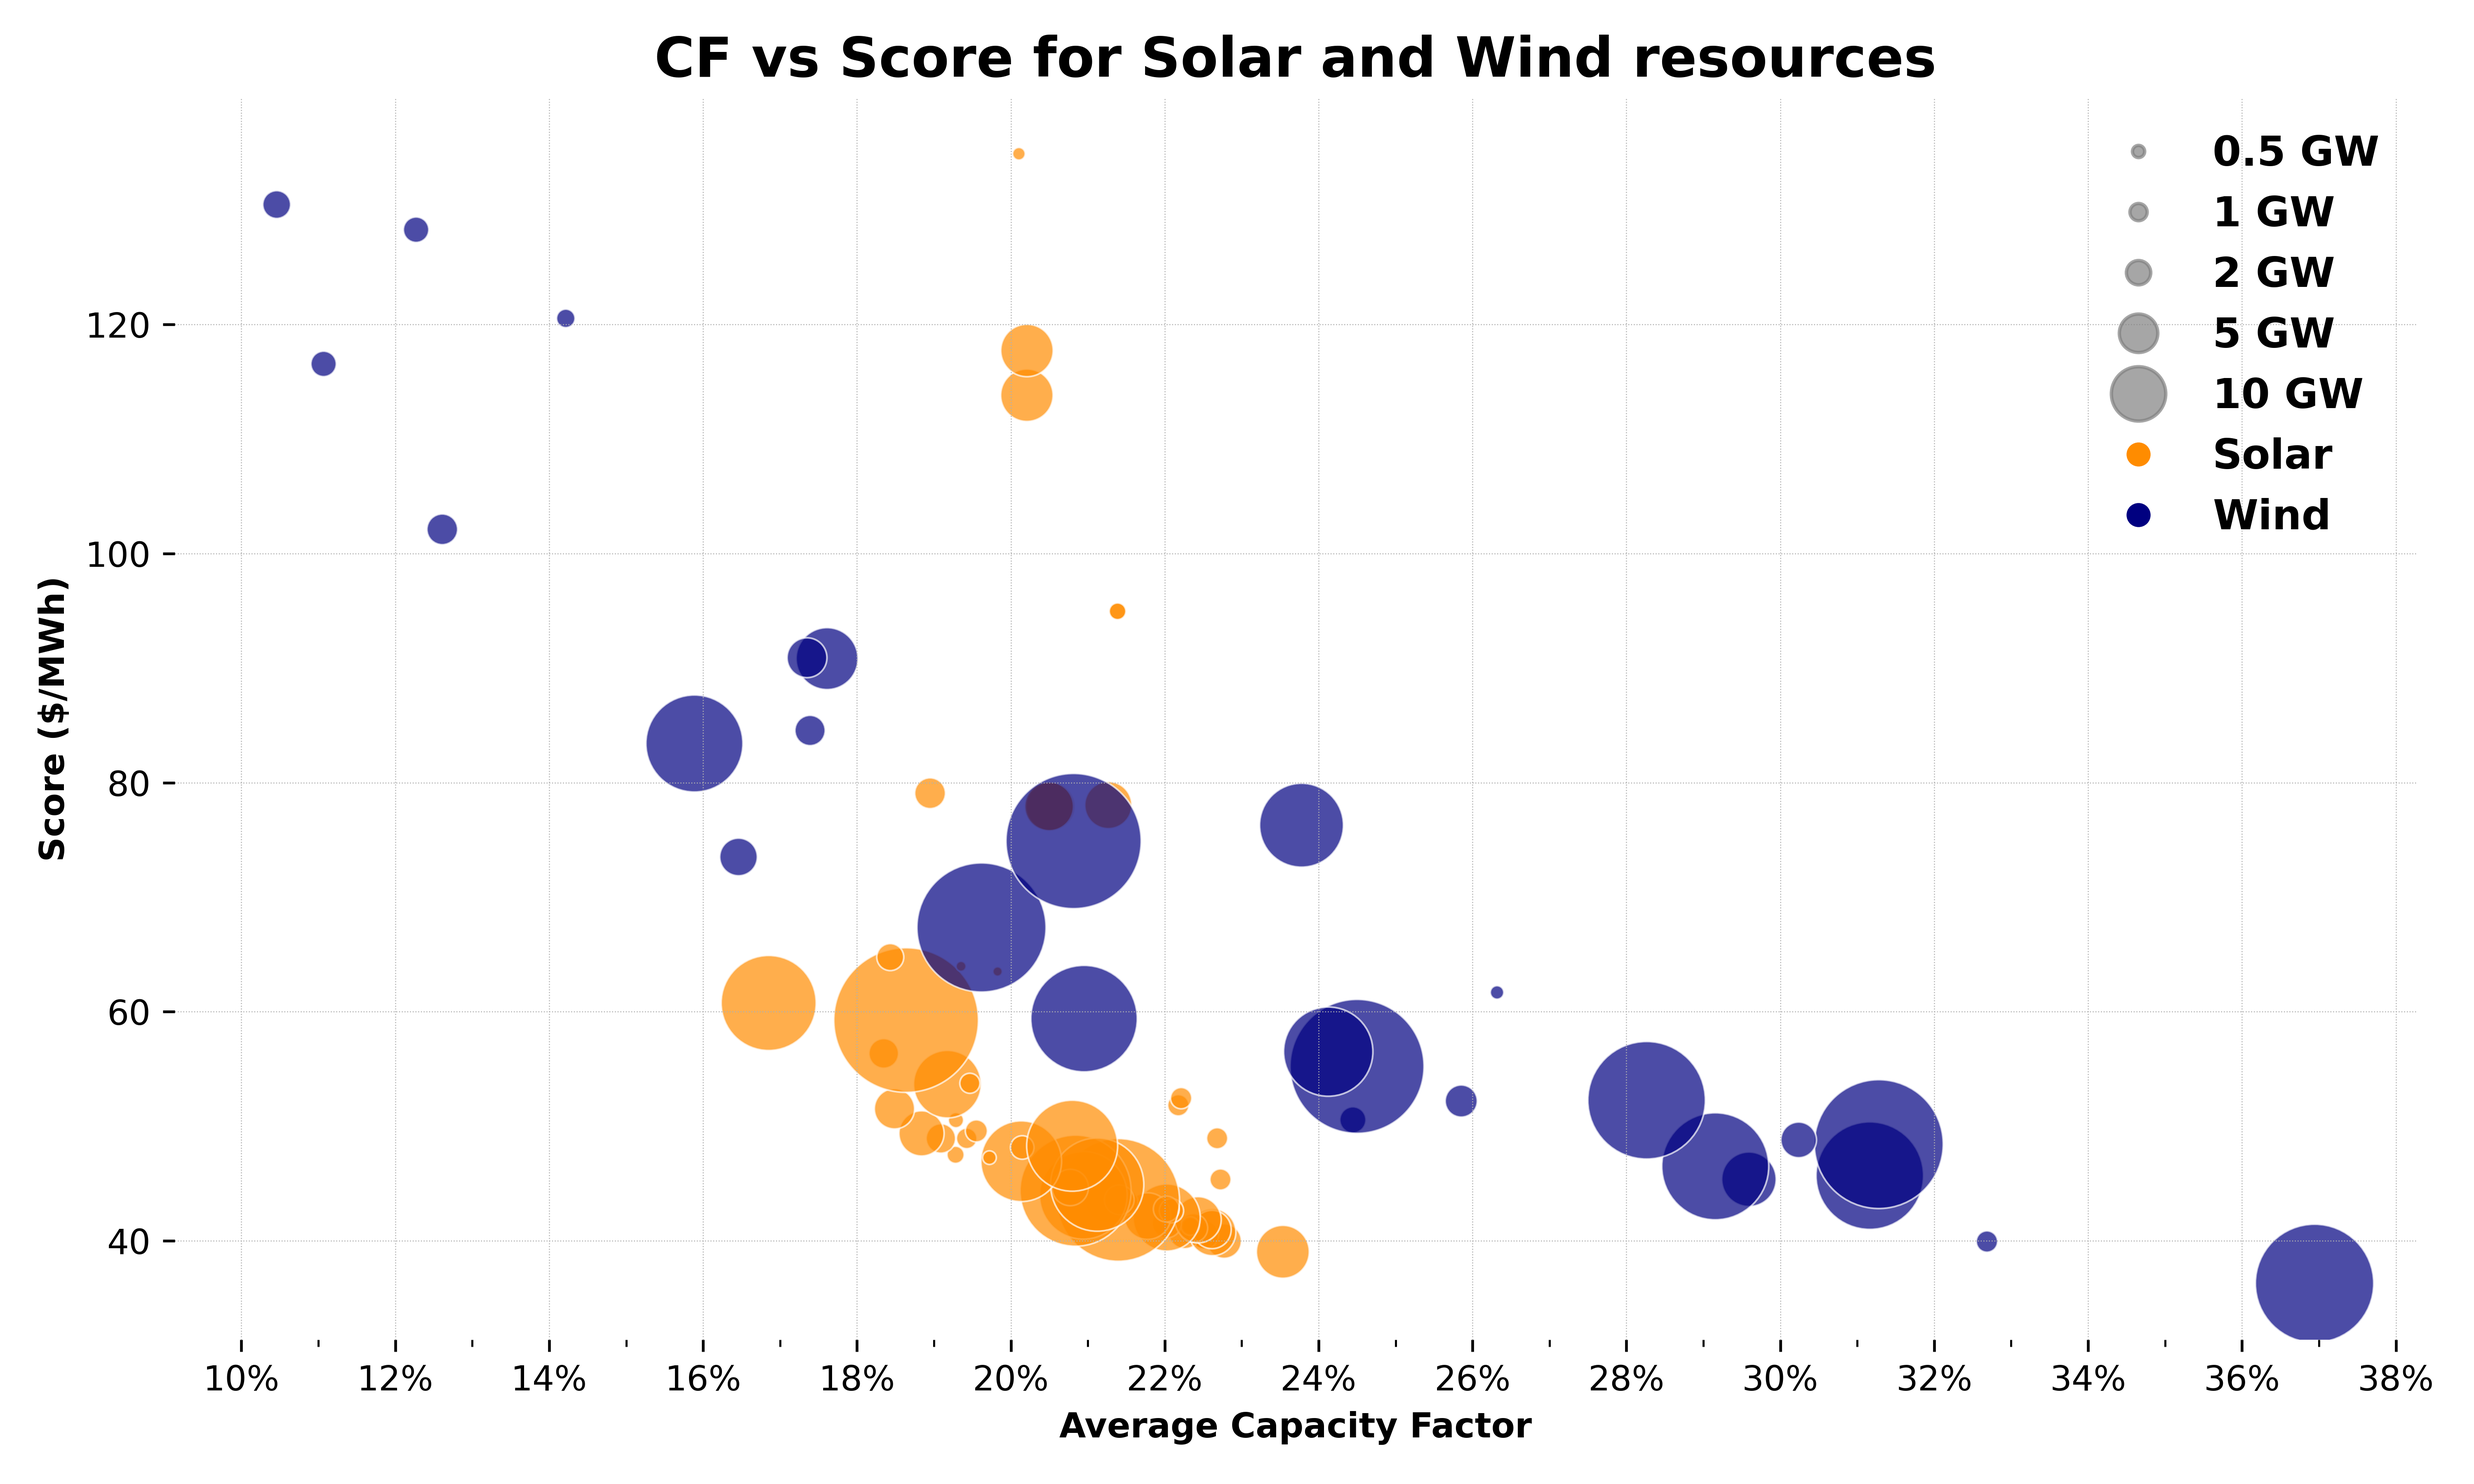
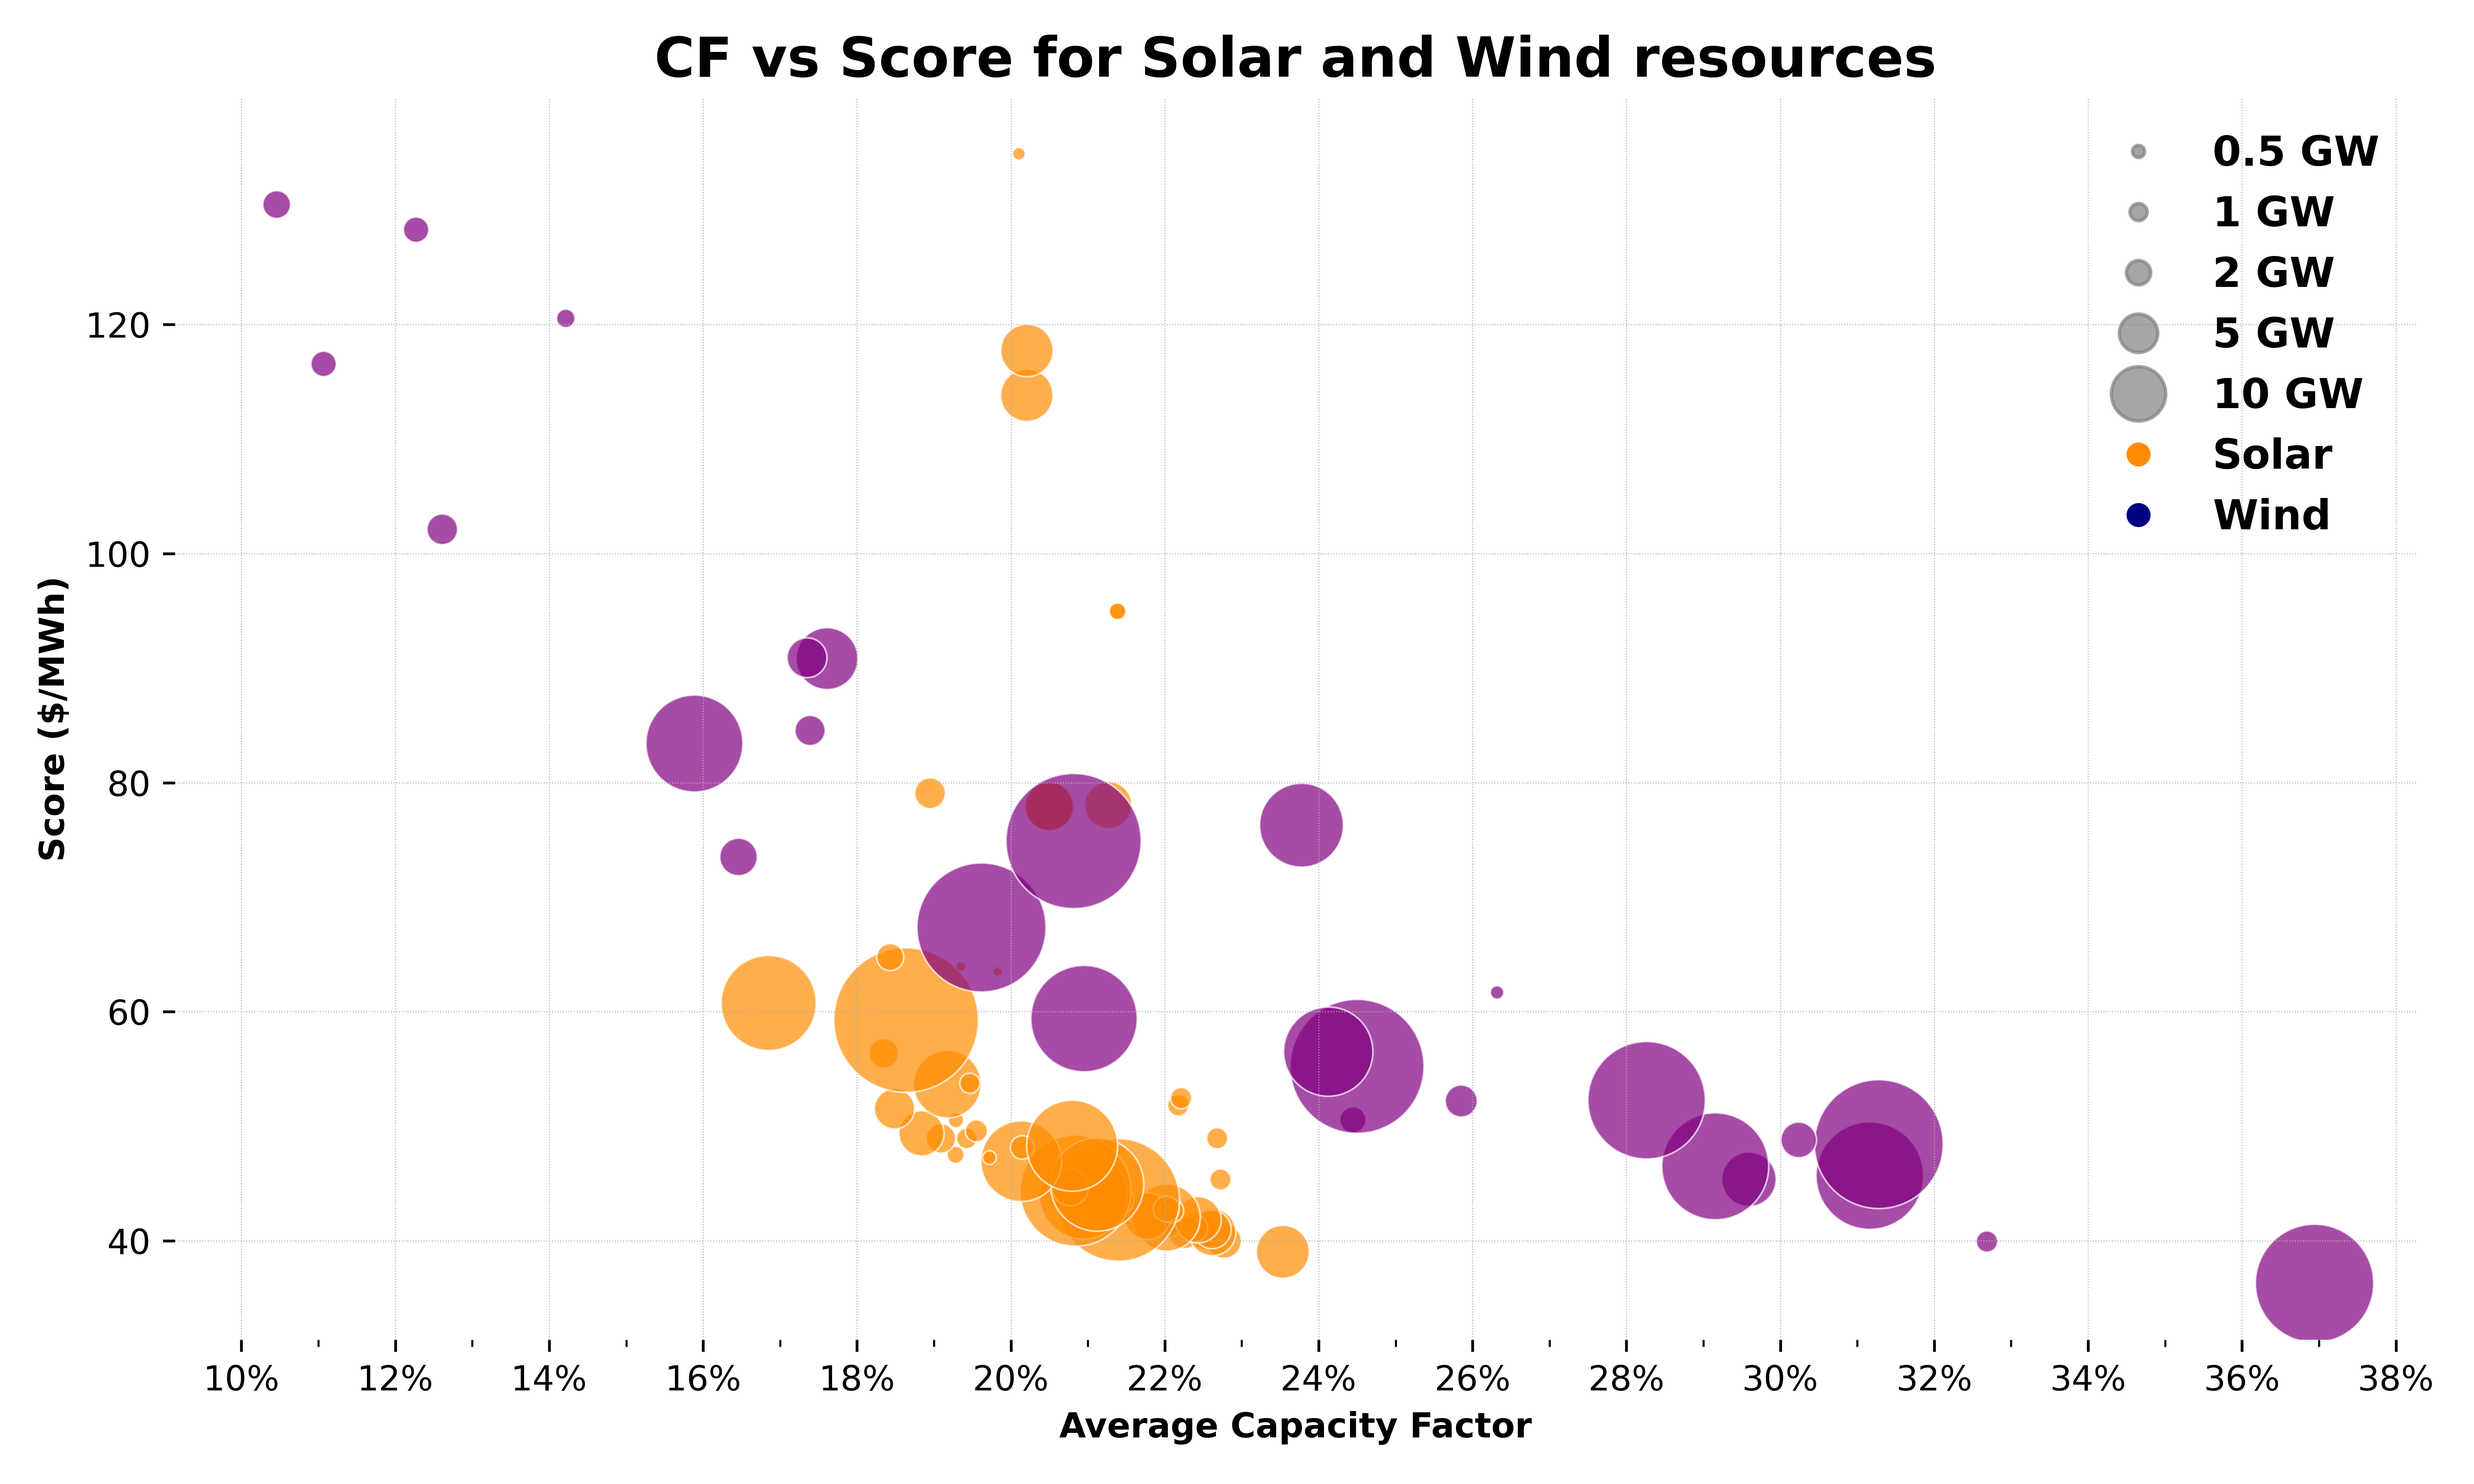
scatter plot color updates

diff --git a/RES/visuals.py b/RES/visuals.py
@@ -115,7 +115,7 @@ def plot_resources_scatter_metric_combined(
         wind['lcoe'],
         s=wind['potential_capacity']*bubbles_scale,  # Scale down for better visibility
         alpha=0.7,
-        c='navy',
+        c='purple',
         edgecolors='w',
         linewidth=0.5,
         label='Wind'
